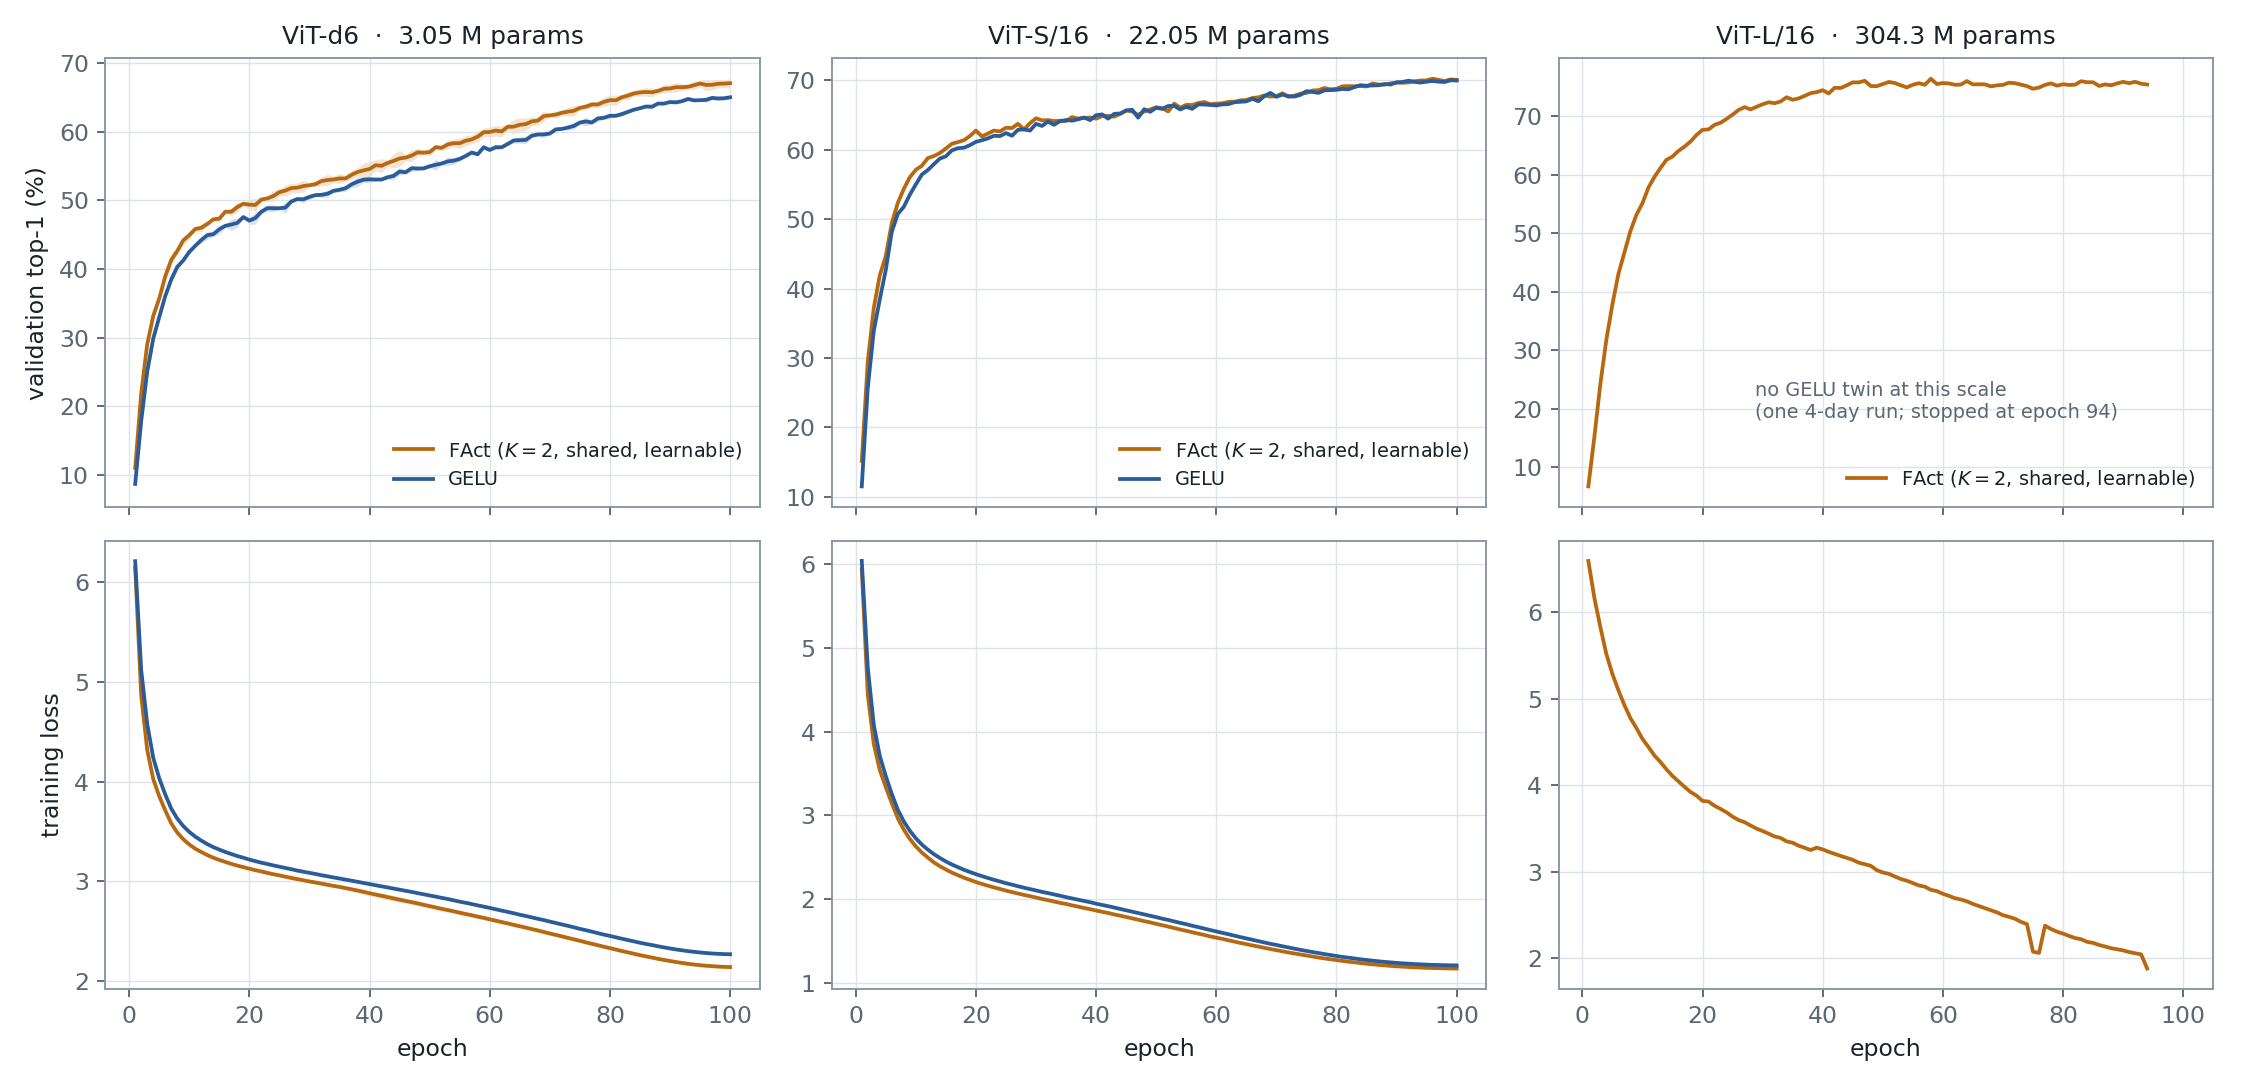
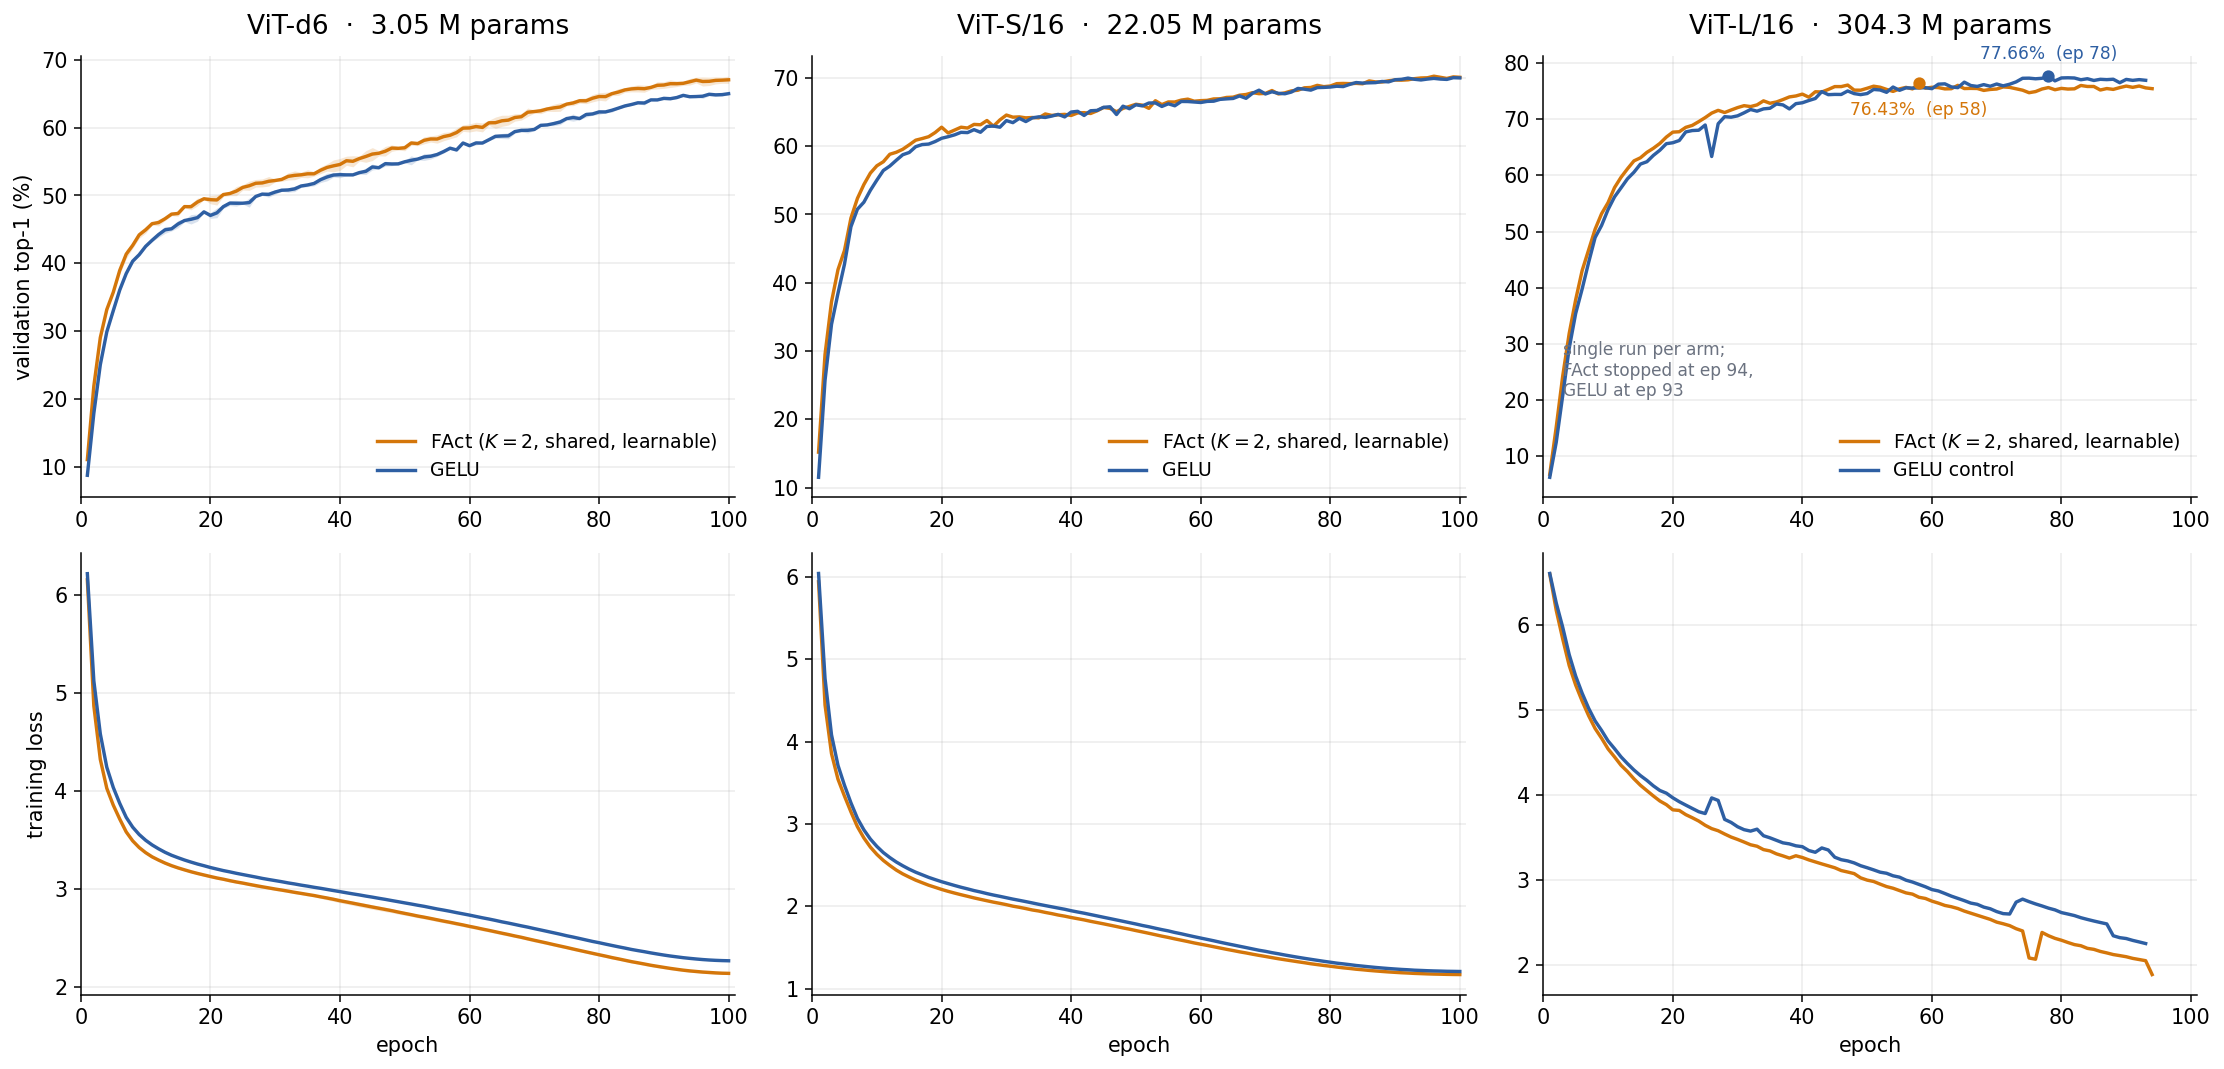
Add the 304M GELU control arm to the FAct post
The ViT-L/16 comparison that the post listed as missing has now run: a
GELU twin matched to the learnable-FAct arm on geometry, data split,
seed, batch size, learning rate, schedule and the heavy-augmentation
recipe, differing only in the activation.

It wins. Best-checkpoint test top-1 is 74.57% for GELU against 72.93%
for FAct, so the test-set delta across the three scales now reads
+1.95 / -0.23 / -1.63: the benefit of a learned shared activation does
not merely fade with scale, it reverses.

- results table gains a 304M GELU row; prose reports the reversal and
  the epoch-65 crossover, and traces it to FAct ending with the lower
  training loss at every epoch but the higher validation loss from
  epoch 52 on
- regenerated training-curves-three-scales.png with both arms in the
  304M panel
- replaced the "no twin, question remains open" caveat with the real
  one: FAct's six resumptions restarted AdamW's moments from zero while
  GELU's three did not, which favours GELU and makes the gap an upper
  bound
- the shape result is unchanged and now explicitly flagged as not
  contingent on which arm won

diff --git a/_posts/2026-11-07-FAct-Fourier-Activation.md b/_posts/2026-11-07-FAct-Fourier-Activation.md
@@ -3,7 +3,7 @@ title: "FAct (Fourier Activation)"
 date: 2026-11-07
 tags: [Deep-Learning, Research, Transformers]
 mathjax: true
-excerpt: "A single activation written as a truncated Fourier series, shared by every block of a Vision Transformer and learned on ImageNet-1K — at 3 million, 22 million and 304 million parameters."
+excerpt: "A single activation written as a truncated Fourier series, shared by every block of a Vision Transformer and learned on ImageNet-1K. Against matched GELU twins at 3M, 22M and 304M parameters it wins, ties, and then loses — while learning the same curve every time."
 ---
 
 Nearly every architecture we build begins with a decision that is almost never
@@ -118,15 +118,15 @@ place to sit — not from a faithful reproduction of GELU.
 ## Training on ViT
 
 I trained three Vision Transformers on ImageNet-1K, spanning two orders of magnitude
-in size, with the globally shared $K=2$ FAct in place of GELU in every FFN. At the two
-smaller scales a GELU-activated twin was trained under an identical configuration, so
-the activation is the only difference between the arms.
+in size, with the globally shared $K=2$ FAct in place of GELU in every FFN. At every
+scale a GELU-activated twin was trained under an identical configuration, so the
+activation is the only difference between the arms.
 
 ### Training details
 
 | | **ViT-d6** | **ViT-S/16** | **ViT-L/16** |
 |---|---|---|---|
-| Parameters (FAct / GELU) | 3,048,237 / 3,048,232 | 22,050,669 / 22,050,664 | 304,326,637 / — |
+| Parameters (FAct / GELU) | 3,048,237 / 3,048,232 | 22,050,669 / 22,050,664 | 304,326,637 / 304,326,632 |
 | Depth · embed · heads | 6 · 192 · 6 | 12 · 384 · 6 | 24 · 1024 · 16 |
 | Patch · resolution | 16 · 224² | 16 · 224² | 16 · 224² |
 | Optimiser | AdamW | AdamW | AdamW |
@@ -134,10 +134,10 @@ the activation is the only difference between the arms.
 | Weight decay | 0.05 | 0.05 | 0.05 |
 | Warm-up / schedule | 5 ep · cosine | 5 ep · cosine | 2 ep · cosine |
 | Batch size | 256 | 512 | 64 |
-| Epochs | 100 | 100 | 100 scheduled, stopped at 94 |
+| Epochs | 100 | 100 | 100 scheduled; FAct stopped at 94, GELU at 93 |
 | Augmentation | RRC(0.5–1.0) + flip | RRC(0.5–1.0) + flip | heavy: RandAugment(2,9) + RandomErasing(0.25) + RRC(0.08–1.0) + mixup 0.8 / CutMix 1.0 |
 | Seeds | 3 | 1 | 1 |
-| Wall-clock (per run)† | ≈ 19–27 h | ≈ 43 h | ≈ 3.7 days |
+| Wall-clock (per run)† | ≈ 19–27 h | ≈ 43 h | ≈ 3.2–3.7 days |
 
 † Wall-clock is quoted only to convey the scale of each run. These were shared
 machines with varying contention, so the figures are not a like-for-like timing
@@ -150,14 +150,25 @@ training set as the validation split, and the official 50,000-image ImageNet val
 set used strictly as a held-out test set. Every accuracy reported as "test" below is
 measured on those 50,000 images.
 
-One caveat must be registered at the outset, since it governs how much the three rows
-may be compared with each other. **This is not a controlled scaling study.** The ViT-L
-run differs from the two smaller runs in learning rate, batch size and augmentation
-recipe, all of which were chosen to make a 304M model trainable from scratch within a
-reasonable wall-clock budget rather than to hold the comparison fixed. It also has no
-GELU twin — a second four-day run was not affordable. The ViT-L row therefore answers
-"what shape does a large model learn on this data?" and not "does FAct beat GELU at
-304M?". The latter question remains open.
+Two caveats must be registered at the outset, since they govern how much the three rows
+may be compared with each other.
+
+**This is not a controlled scaling study.** The ViT-L run differs from the two smaller
+runs in learning rate, batch size and augmentation recipe, all of which were chosen to
+make a 304M model trainable from scratch within a reasonable wall-clock budget rather
+than to hold the comparison fixed. Comparisons *down* the table — 3M against 304M — are
+therefore confounded; comparisons *within* a column, FAct against its GELU twin, are not.
+
+**The 304M pair has one asymmetry I could not remove after the fact.** Both arms were
+carried across 24-hour scheduler windows by stopping and resubmitting from the latest
+checkpoint. The FAct run was launched before I had added optimiser state to the
+checkpoint format, so each of its six resumptions restarted AdamW's moments from zero;
+the GELU run, launched ten days later, resumed its moments properly across three
+restarts. That difference favours GELU at every window boundary, and it is not
+recoverable without re-running four days of training. It is small — the moments rebuild
+within a few hundred steps of a 19,861-step epoch — but it is real, and it points the
+same way as the result below, so the 304M gap should be read as an upper bound on
+GELU's advantage rather than a point estimate.
 
 ### Table summary
 
@@ -167,7 +178,8 @@ GELU twin — a second four-day run was not affordable. The ViT-L row therefore 
 | | | **FAct** $K{=}2$ | **67.15 ± 0.65** | **64.47 ± 0.59** | **+1.95** |
 | ViT-S/16 (1 seed) | 22.05 M | GELU | 70.03 | 66.81 | — |
 | | | **FAct** $K{=}2$ | **70.25** | 66.58 | −0.23 |
-| ViT-L/16 (1 seed) | 304.3 M | **FAct** $K{=}2$ | **76.43** | 72.93 | no twin |
+| ViT-L/16 (1 seed) | 304.3 M | GELU | **77.66** | **74.57** | — |
+| | | **FAct** $K{=}2$ | 76.43 | 72.93 | **−1.63** |
 
 At **3 million parameters the result is clear and it replicates.** Averaged over three
 seeds, FAct gains $1.95 \pm 0.59$ percentage points of test accuracy over GELU; a
@@ -186,15 +198,34 @@ coefficients confer on a 3M model, a 22M model has evidently found another way t
 obtain — most plausibly through the additional width and depth it can spend on the
 same problem.
 
-I want to be direct about this, since it is the least convenient number in the post: on
-the evidence here, **the accuracy benefit of FAct does not survive the jump from 3M to
-22M parameters.** A single-seed comparison cannot establish a tie with any rigour, but
-it certainly cannot rescue a $+1.95$ point claim either. The accuracy case for FAct, as
-it stands, is a small-model case.
+At **304 million parameters the sign has flipped, and GELU wins.** The control arm
+reaches 77.66% on validation and 74.57% on the test set at its best checkpoint, against
+FAct's 76.43% and 72.93% — a deficit of $1.63$ points for the learned activation. The
+same ordering holds at the last checkpoint of each run (73.98% against 72.56%), so this
+is not a matter of which epoch one reads off. One seed per arm, and the optimiser-state
+asymmetry noted above tilts the board slightly towards GELU, so I would not defend the
+exact magnitude. The sign, at $1.63$ points, is well outside anything those caveats
+plausibly account for.
+
+I want to be direct about what the three rows now say together, since it is the least
+convenient result in the post. Read as a sequence, the Δ column goes $+1.95$, $-0.23$,
+$-1.63$: **the benefit of a learned shared activation does not merely fade with scale
+— it reverses.** The accuracy case for FAct is a small-model case, and at 304M the
+honest summary is that five learnable coefficients cost roughly a point and a half
+against simply using GELU.
+
+The losses say something about why. At 304M, FAct's training loss is the *lower* of the
+two at every single epoch of the run, ending at 2.05 against GELU's 2.25. Its validation
+loss, however, is lower only up to epoch 51; from epoch 52 onward it is the higher of
+the two, ending at 2.17 against 1.98. So the extra flexibility keeps paying on the
+training distribution long after it has stopped paying on held-out data — under this
+heavy-augmentation recipe it is being spent fitting rather than generalising. That is
+the opposite of what the same five parameters do at 3M, where FAct's advantage appears
+on validation within the first ten epochs and never goes away.
 
 ### Training curves
 
-<img src="/images/FAct-Fourier-Activation/training-curves-three-scales.png" alt="Six panels in two rows. Top row: validation top-1 accuracy against epoch for the three model scales; FAct is clearly above GELU at 3.05M, indistinguishable at 22.05M, and the 304M panel shows FAct alone. Bottom row: the corresponding training loss curves." style="max-width:100%; height:auto;">
+<img src="/images/FAct-Fourier-Activation/training-curves-three-scales.png" alt="Six panels in two rows. Top row: validation top-1 accuracy against epoch for the three model scales; FAct is clearly above GELU at 3.05M, indistinguishable at 22.05M, and at 304M FAct leads early before GELU crosses above it around epoch 65 and finishes 1.2 points higher. Bottom row: the corresponding training loss curves, where at 304M FAct's training loss is the lower of the two throughout." style="max-width:100%; height:auto;">
 
 The curves are instructive beyond the final numbers. At 3.05M the separation opens
 within the first ten epochs and then holds, roughly constant, for the remaining ninety
@@ -209,19 +240,27 @@ points, and GELU is in front at twenty of them. The advantage is therefore not a
 at this scale; it is spent, well before the cosine schedule anneals. The larger model
 reaches on its own, and fairly quickly, whatever the learned activation was buying.
 
-The ViT-L panel shows a single run and should be read as a training log rather than a
-comparison. Its best checkpoint, at epoch 58, reaches 76.43% on the held-out validation
-split and 72.93% on the 50,000-image test set — six points clear of the 22M model, which
-is what one would expect from a fourteen-fold increase in size combined with a far
-heavier augmentation recipe, and which says nothing at all about the activation.
-Validation accuracy reaches the mid-seventies by epoch 45 and then plateaus; the small
-discontinuities in the loss curve near epochs 75 and 94 are resume boundaries, since the run was carried across several 24-hour scheduler windows
-by stopping and resubmitting from the latest checkpoint. The run was halted at epoch 94
-rather than 100: validation loss had begun drifting upward from epoch 77 while
-validation accuracy stayed flat — the usual late-cosine label-smoothing
-overconfidence — and the learned coefficients were by then moving only in the fourth
-decimal place. That reading is borne out by the final epoch-94 checkpoint, which scores
-75.44% validation and 72.56% test, below the epoch-58 best on both counts.
+At 304.3M the 22M pattern repeats, and then goes one step further. FAct is ahead for
+roughly the first two-thirds of training — by an average of 1.9 points over epochs 1–20
+and 1.1 points over epochs 21–60 — and its best checkpoint, at epoch 58, arrives while
+it is still in front. GELU catches it at epoch 65 and stays ahead thereafter, leading by
+an average of 1.2 points over epochs 61–93 and peaking at 77.66% at epoch 78. So the
+early-advantage-then-spent story of the 22M run is visible here too; what is new is that
+the curves do not merely converge, they cross.
+
+Both runs were carried across 24-hour scheduler windows by stopping and resubmitting
+from the latest checkpoint, which is what the small discontinuities in the loss curves
+are. Neither reached epoch 100: FAct was halted at 94 because its validation loss had
+been drifting upward since epoch 77 while validation accuracy stayed flat — the usual
+late-cosine label-smoothing overconfidence — and its coefficients were by then moving
+only in the fourth decimal place; GELU was stopped at 93, fifteen epochs past its own
+peak and oscillating flat between 76.5% and 77.1% for the last eight of them. Reading
+each run's last checkpoint instead of its best gives 72.56% test for FAct and 73.98%
+for GELU, preserving the ordering.
+
+Both models are of course far above the 22M pair, by six to eight points, which is what
+a fourteen-fold increase in size with a much heavier augmentation recipe buys and which
+says nothing about the activation either way.
 
 ### The learned activation
 
@@ -271,6 +310,14 @@ shape with the volume turned down. Whether this reflects the model size or the m
 heavier augmentation and smaller learning rate it was trained with, I cannot separate
 from this single run — and it would be wrong to claim otherwise.
 
+It is tempting to connect the flatness to the accuracy result — the one scale where the
+learned curve stays closest to a plain monotone nonlinearity is also the one scale where
+GELU wins — and the connection may well be real. But a single run cannot distinguish
+"the large model found less use for the oscillation" from "the large model had not
+finished moving when I stopped it at epoch 94", and the coefficients were still drifting
+in the fourth decimal place when it stopped. I record the coincidence and leave it at
+that.
+
 There is one further observation that I did not anticipate, and which I find the most
 persuasive piece of evidence in the whole study. The three seeds of the 3.05M model
 end at:
@@ -297,25 +344,38 @@ To summarise honestly:
 - A globally shared $K=2$ Fourier activation costs five parameters and gives a
   reproducible $+1.95$ point test gain on a 3M-parameter ViT on ImageNet-1K.
 - That gain is gone by 22M parameters, where FAct and GELU are tied on a single-seed
-  comparison.
+  comparison, and **reversed by 304M, where the GELU twin wins by $1.63$ points.**
+  Across the three scales the test-set delta runs $+1.95$, $-0.23$, $-1.63$.
+- The mechanism behind the reversal is visible in the curves: at both 22M and 304M FAct
+  holds a one-to-two point lead for the first part of training and then loses it. At
+  304M it also ends with the lower training loss and the higher validation loss, which
+  is what spending flexibility on fitting rather than generalising looks like.
 - At all three scales — 3M, 22M and 304M — the learned curve departs from GELU in the
   same direction and arrives at a recognisably common shape, with the largest model
-  settling on a flatter version of it.
+  settling on a flatter version of it. This holds *regardless of which arm won*.
 - Across seeds at a fixed scale, the learned coefficients reproduce to about two
   decimal places.
 
-The accuracy story and the shape story therefore point in different directions, and I
-think it is the second that deserves the follow-up. If the curve a network learns is
-determined this reliably by the data, then it is a property of the problem and not of
-the particular network, and one ought to be able to learn it once and reuse it
+The accuracy story and the shape story therefore point in different directions — more
+sharply now than when I first wrote this up, since the accuracy story ends in a loss
+rather than a tie. It is the second that deserves the follow-up. If the curve a network
+learns is determined this reliably by the data, then it is a property of the problem and
+not of the particular network, and one ought to be able to learn it once and reuse it
 elsewhere. That is precisely what the transfer experiments in the companion post
 [We Can Not Only Learn Activations, But Also Transfer Them](/2026/08/31/we-can-not-only-learn-but-also-transfer-activations.html)
-examine, and it is where I believe the idea actually earns its keep.
+examine, and it is where I believe the idea actually earns its keep. It is worth saying
+plainly that the shape result is *not* contingent on FAct winning: the 304M model learns
+the same departure from GELU whether or not that departure helped it, which is what makes
+the curve interesting as an object of study rather than as a proposed improvement.
 
-What is still missing is a GELU twin at 304M and more than one seed at 22M, both of
-which are compute questions rather than scientific ones. Until those exist, the
-scaling behaviour above should be read as three careful observations and not as a
-trend.
+What is still missing is more than one seed at 22M and at 304M. Both are compute
+questions rather than scientific ones, and at four days per 304M run the second is not
+cheap. A monotone progression across three scales measured once each is suggestive, not
+established; with the 304M arms differing by $1.63$ points I am fairly confident of the
+*sign* at that scale, considerably less so of the shape of the curve connecting the
+three points. The one asymmetry I know of — FAct's optimiser moments restarting at each
+resume — pushes in GELU's favour, so a properly matched rerun would most likely narrow
+the 304M gap rather than widen it.
 
 ## Citation
 
